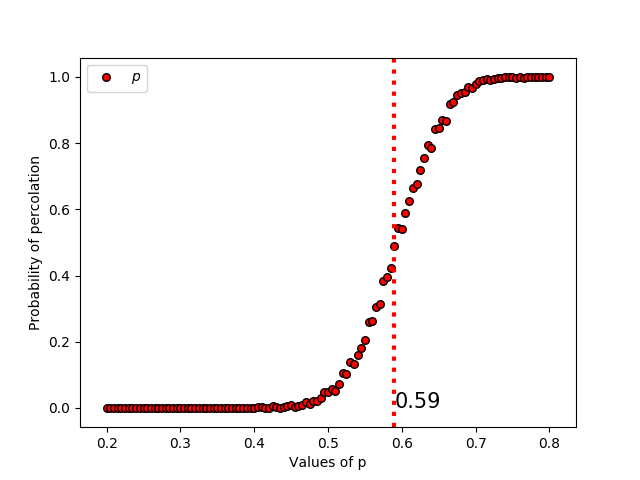
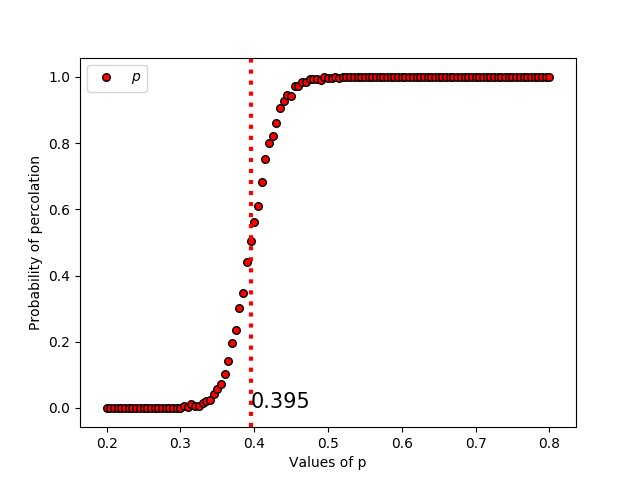
error removed

diff --git a/Percolation Thresholds in Cube/cube.py b/Percolation Thresholds in Cube/cube.py
@@ -51,7 +51,7 @@ def percolate(M):
         for c in range(len(M)):
             for d in range(len(M)):
                 if(M[i+1][len(M)-1-d][c]==1):
-                    if(len(M)-1-d-1>=0 and M[i+1][len(M)-1-d-1][c]==2):
+                    if(len(M)-1-d+1<len(M) and M[i+1][len(M)-1-d+1][c]==2):
                         M[i+1][len(M)-1-d][c]=2
                                       
 
